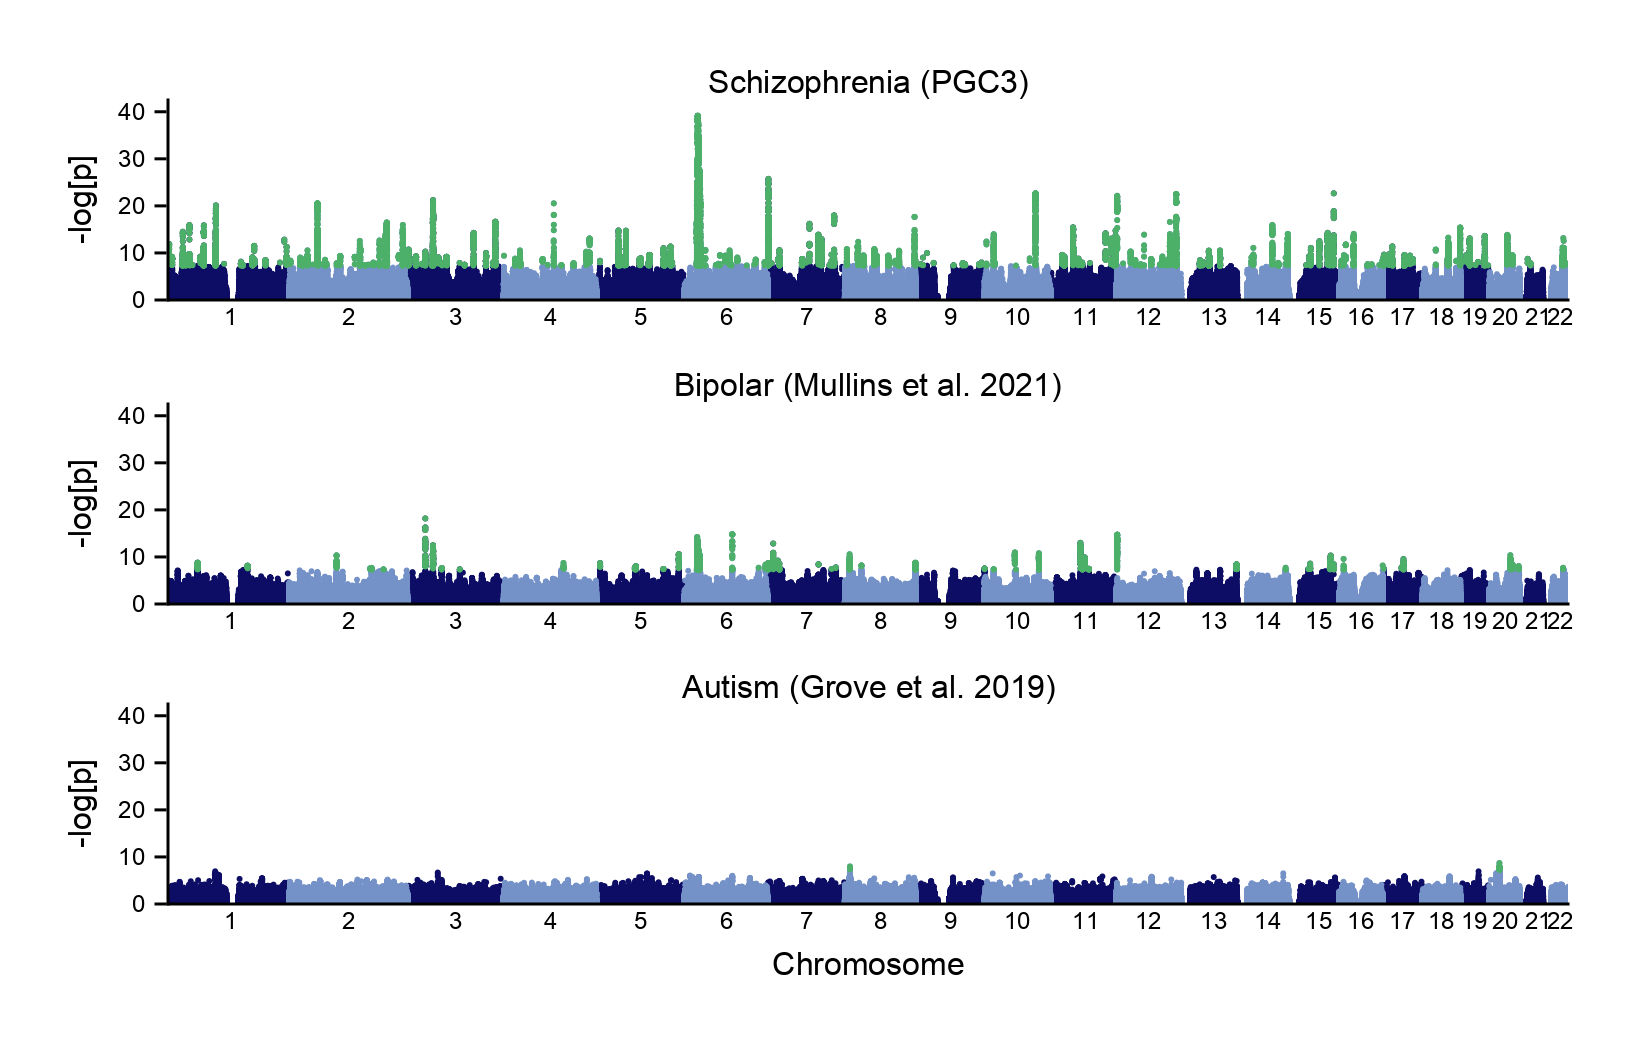
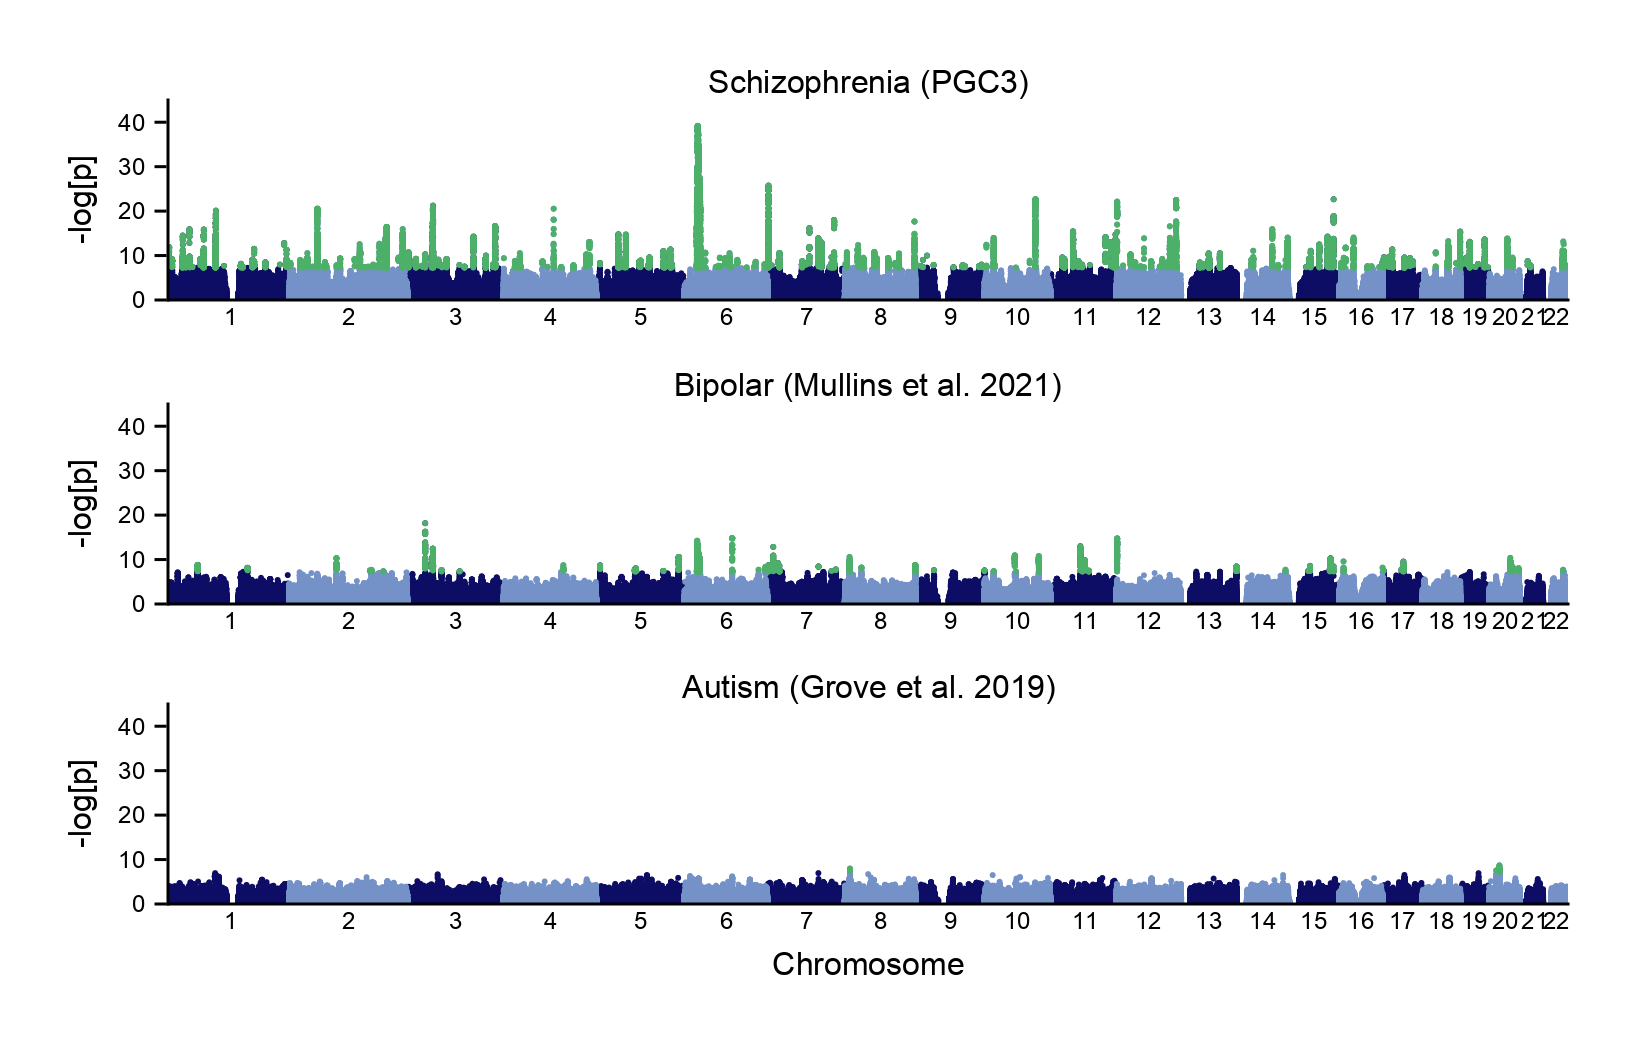
edit manhattan

diff --git a/README.md b/README.md
@@ -328,9 +328,8 @@ end
 @time let
     f = Figure(resolution = (408, 792))
     axs = [Axis(f[i, 1]) for i in 1:length(titles)]
-    coord, ymaxs, xmax, ticks = GM.coordinategwas(gwas) # set up coordinates
     for i in eachindex(titles)
-        GM.plotgwas!(axs[i], coord, i, ymaxs[i], xmax, ticks; ystep = 10)
+        GM.plotgwas!(axs[i], gwas[i]; ymax = 45)
         hidespines!(axs[i], :t, :r)
         Label(f[i, 1, Top()], text = "$(titles[i])", textsize = 8)
         rowsize!(f.layout, i, 50)
@@ -349,16 +348,15 @@ end
 @time let
     f = Figure(resolution = (408, 792))
     axs = [Axis(f[i, 1]) for i in 1:2]
-    coord, ymaxs, xmax, ticks = GM.coordinategwas(gwas[1:2])
     for i in 1:2
-        GM.plotgwas!(axs[i], coord, i, ymaxs[i], xmax, ticks; ystep = 10)
+        GM.plotgwas!(axs[i], gwas[i]; ymax = 45)
         axs[i].xlabel = ""
         rowsize!(f.layout, i, 50)
     end
     hidexdecorations!(axs[2])
     hidespines!(axs[1], :t, :r)
     hidespines!(axs[2], :b, :r)
-    ylims!(axs[2], ymaxs[2], 0)
+    ylims!(axs[2], 45, 0)
     Label(f[1, 1, Top()], text = "$(titles[1])", textsize = 8)
     Label(f[2, 1, Bottom()], text = "$(titles[2])", textsize = 8)
     rowgap!(f.layout, 1)
@@ -406,5 +404,5 @@ Colocalization of GWAS signals:
 Association results across multiple phenotypes:
 <p align="center"><img width="100%" style="border-radius: 5px;" src="figs/KMT2E-phewas.png"></p>
 MHC association for schizophrenia with increasing sample size:
-<p align="center"><img width="100%" style="border-radius: 5px;" src="figs/C4A-locuszoom1.png"></p>
-<p align="center"><img width="100%" style="border-radius: 5px;" src="figs/C4A-locuszoom2.png"></p>
+<p align="center"><img width="80%" style="border-radius: 5px;" src="figs/C4A-locuszoom1.png"></p>
+<p align="center"><img width="80%" style="border-radius: 5px;" src="figs/C4A-locuszoom2.png"></p>
